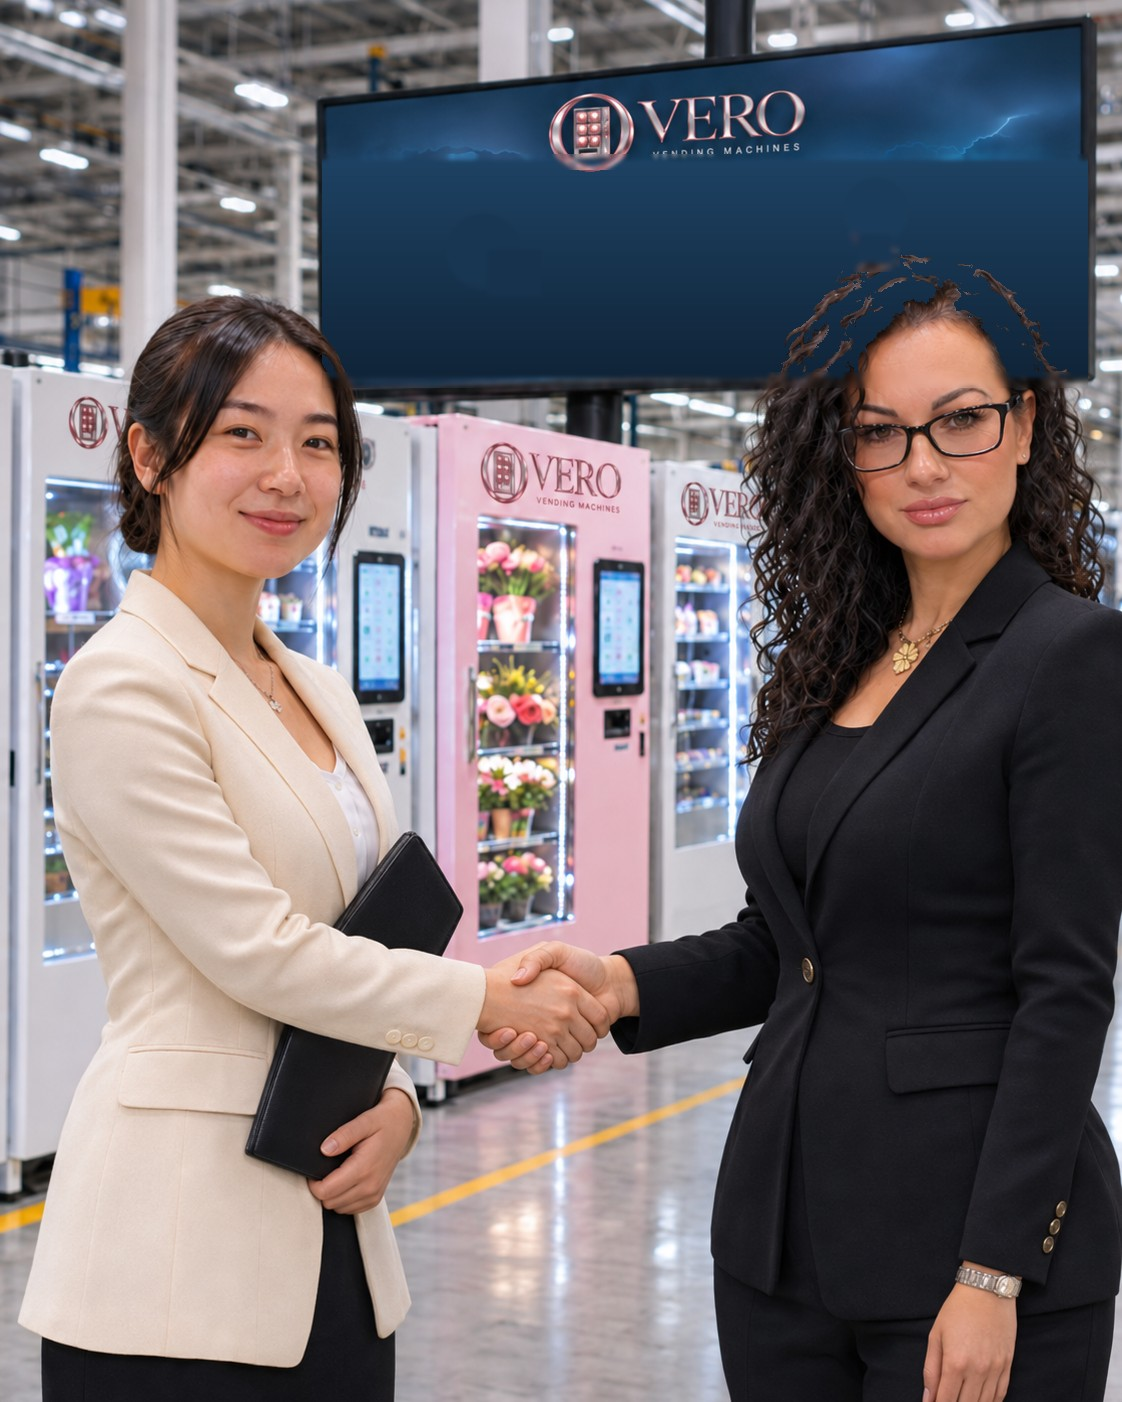
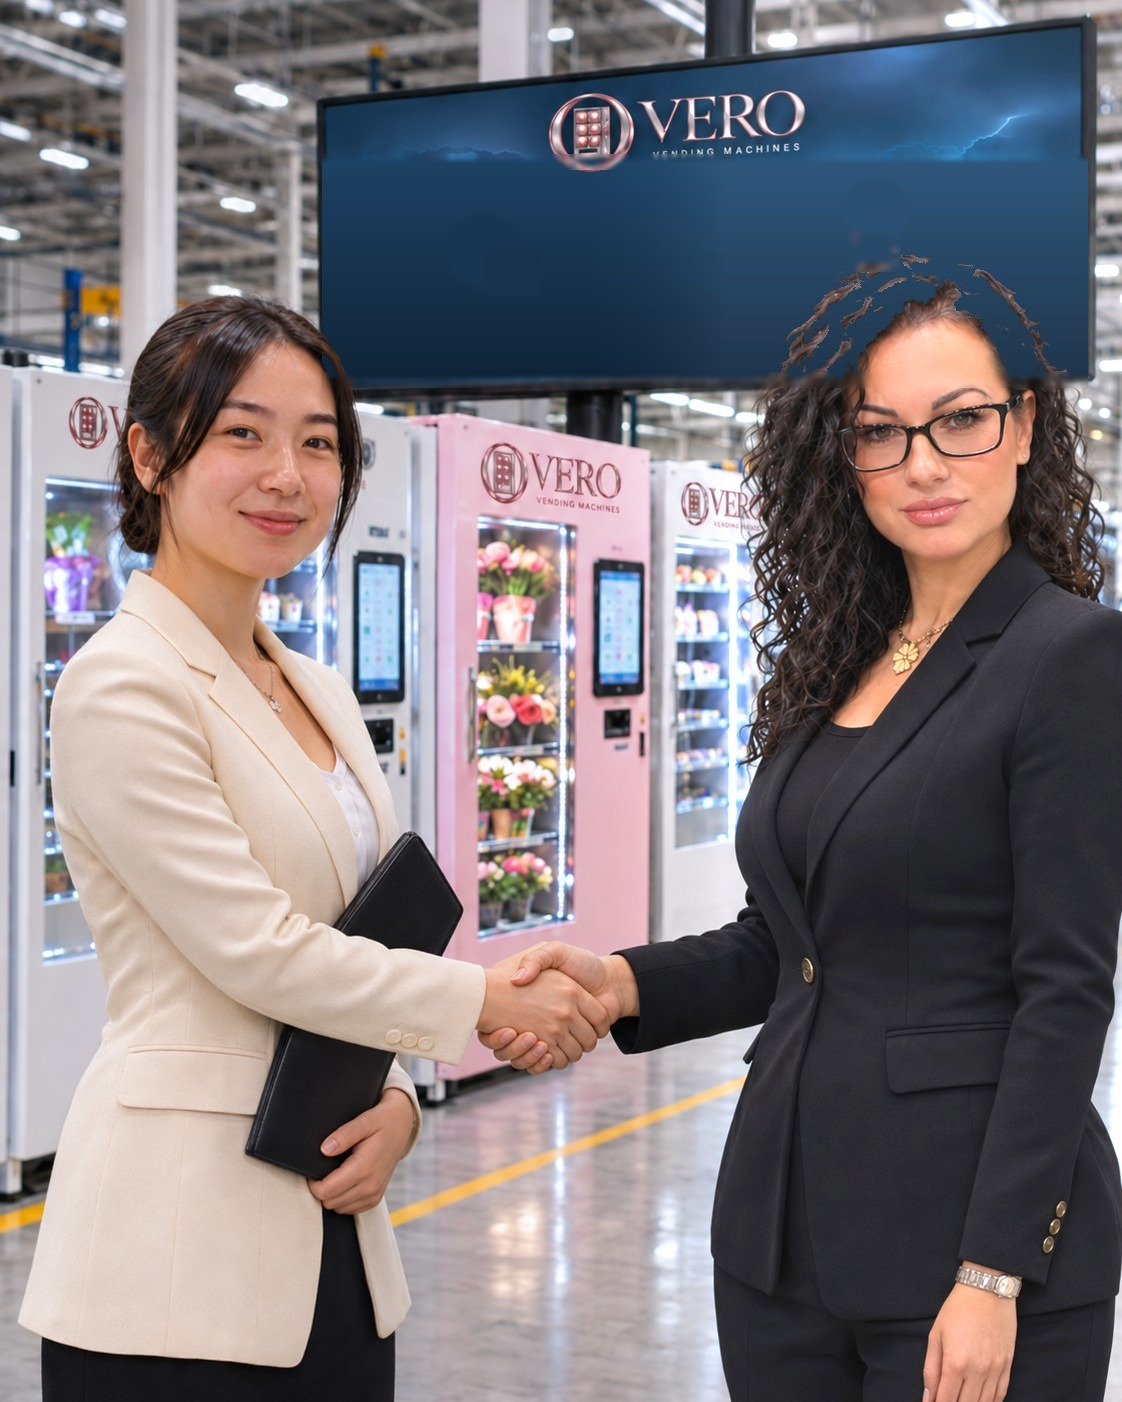
Przywroc tekst po lewej i rozjasnij autorke strony na zdjeciu w tle
Wedlug uwagi: w nowym zdjeciu to ona jest kobieta w czarnej marynarce
po prawej stronie kadru, a nie jak wczesniej zalozono. Przywrocono
napisy na lewa strone (bez przesuniecia), usunieto asymetryczny
gradient, a zamiast tego podbito jasnosc i kontrast bezposrednio na
jej sylwetce w zdjeciu, zeby byla wyrazniej widoczna niz chinska
wspolpracowniczka.
Claude-Session: https://claude.ai/code/session_01NQ8jR3jRrEcRutgxQ3vXWQ

diff --git a/index.html b/index.html
@@ -99,9 +99,9 @@
 <!-- HERO SLIDER -->
 <section class="hero-slider">
 
-  <div class="slide active" style="background-image:linear-gradient(90deg, rgba(10,4,8,.14), rgba(10,4,8,.78) 62%), linear-gradient(180deg, rgba(20,8,15,.28), rgba(20,8,15,.4)), url('assets/img/handshake-polska-chiny.jpg'); background-position:center 18%;">
+  <div class="slide active" style="background-image:linear-gradient(180deg, rgba(20,8,15,.5), rgba(20,8,15,.38)), url('assets/img/handshake-polska-chiny.jpg'); background-position:center 18%;">
     <div class="container">
-      <div class="slide-content align-right">
+      <div class="slide-content">
         <div class="eyebrow">Polska i Chiny - stała współpraca</div>
         <h1>VERO Vending Machines <span>- Twoja marka, moja odpowiedzialność</span></h1>
         <p class="lead">Osobiście latam do fabryki w Chinach, żeby na miejscu sprawdzić produkcję i jakość każdego modelu, zanim trafi do Twojego biznesu. VERO to moja marka, rozwijana we współpracy ze sprawdzonym producentem - nie przypadkowe pośrednictwo w pojedynczych zamówieniach.</p>

diff --git a/en/index.html b/en/index.html
@@ -73,9 +73,9 @@
 
 <section class="hero-slider">
 
-  <div class="slide active" style="background-image:linear-gradient(90deg, rgba(10,4,8,.14), rgba(10,4,8,.78) 62%), linear-gradient(180deg, rgba(20,8,15,.28), rgba(20,8,15,.4)), url('../assets/img/handshake-polska-chiny.jpg'); background-position:center 18%;">
+  <div class="slide active" style="background-image:linear-gradient(180deg, rgba(20,8,15,.5), rgba(20,8,15,.38)), url('../assets/img/handshake-polska-chiny.jpg'); background-position:center 18%;">
     <div class="container">
-      <div class="slide-content align-right">
+      <div class="slide-content">
         <div class="eyebrow">Poland &amp; China - an ongoing partnership</div>
         <h1>VERO Vending Machines <span>- your brand, my responsibility</span></h1>
         <p class="lead">I personally fly to the factory in China to check production and quality of every model on site before it reaches your business. VERO is my own brand, built together with a proven manufacturer - not casual brokering of one-off orders.</p>

diff --git a/zh/index.html b/zh/index.html
@@ -73,9 +73,9 @@
 
 <section class="hero-slider">
 
-  <div class="slide active" style="background-image:linear-gradient(90deg, rgba(10,4,8,.14), rgba(10,4,8,.78) 62%), linear-gradient(180deg, rgba(20,8,15,.28), rgba(20,8,15,.4)), url('../assets/img/handshake-polska-chiny.jpg'); background-position:center 18%;">
+  <div class="slide active" style="background-image:linear-gradient(180deg, rgba(20,8,15,.5), rgba(20,8,15,.38)), url('../assets/img/handshake-polska-chiny.jpg'); background-position:center 18%;">
     <div class="container">
-      <div class="slide-content align-right">
+      <div class="slide-content">
         <div class="eyebrow">波兰与中国 - 长期稳定合作</div>
         <h1>VERO 自动售货机 <span>- 您的品牌，我的责任</span></h1>
         <p class="lead">我亲自飞往中国工厂，实地检查每一款产品的生产与质量，确保产品送达您的业务之前达到标准。VERO 是我自己的品牌，与可靠的制造商共同打造 - 而非随意的单次代购。</p>

diff --git a/assets/css/style.css b/assets/css/style.css
@@ -259,8 +259,6 @@ section{ padding:96px 0; position:relative; }
 @media (max-width:640px){ .slide{ align-items:flex-start; } }
 .slide.active{ opacity:1; visibility:visible; z-index:1; }
 .slide-content{ position:relative; z-index:2; max-width:760px; }
-.slide-content.align-right{ margin-left:auto; }
-@media (max-width:900px){ .slide-content.align-right{ margin-left:0; } }
 .slide .eyebrow{ color:var(--pink-2); }
 .slide .eyebrow::before{ background:var(--pink-2); }
 .slide h1, .slide h2{ color:#fff; margin-bottom:.4em; }
